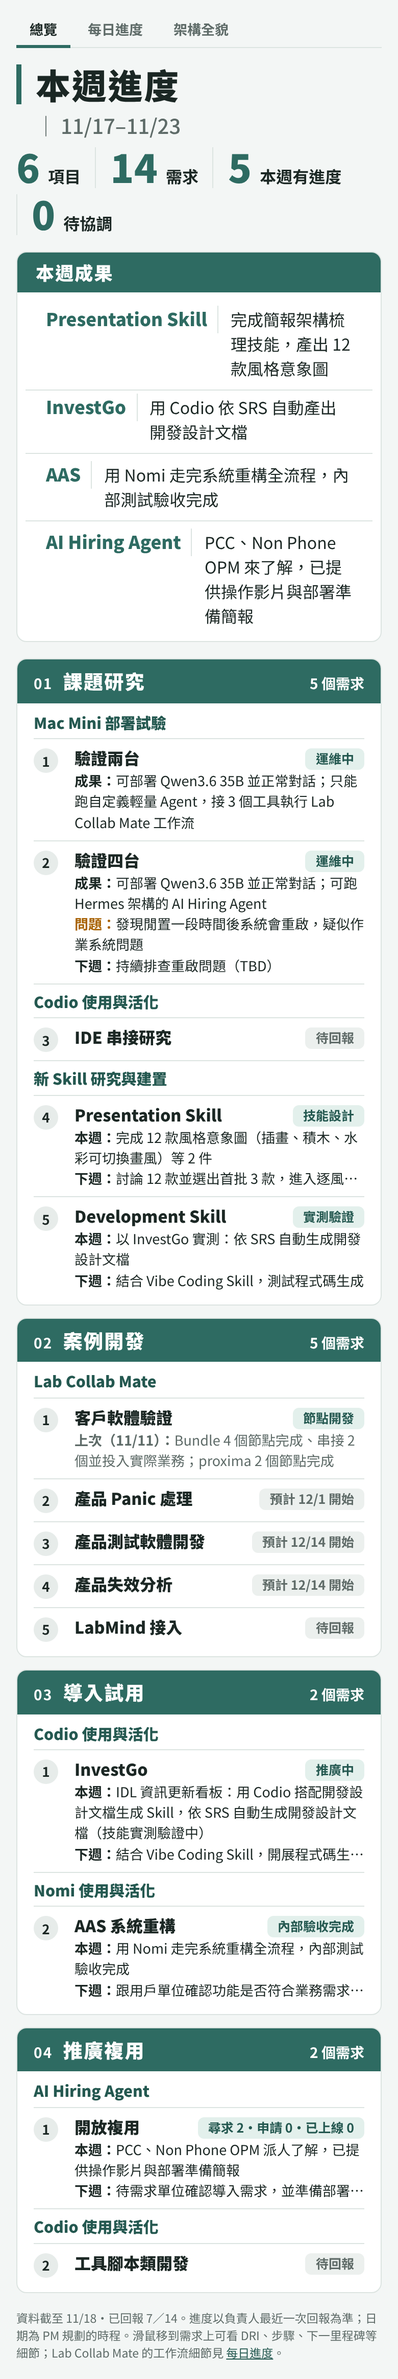
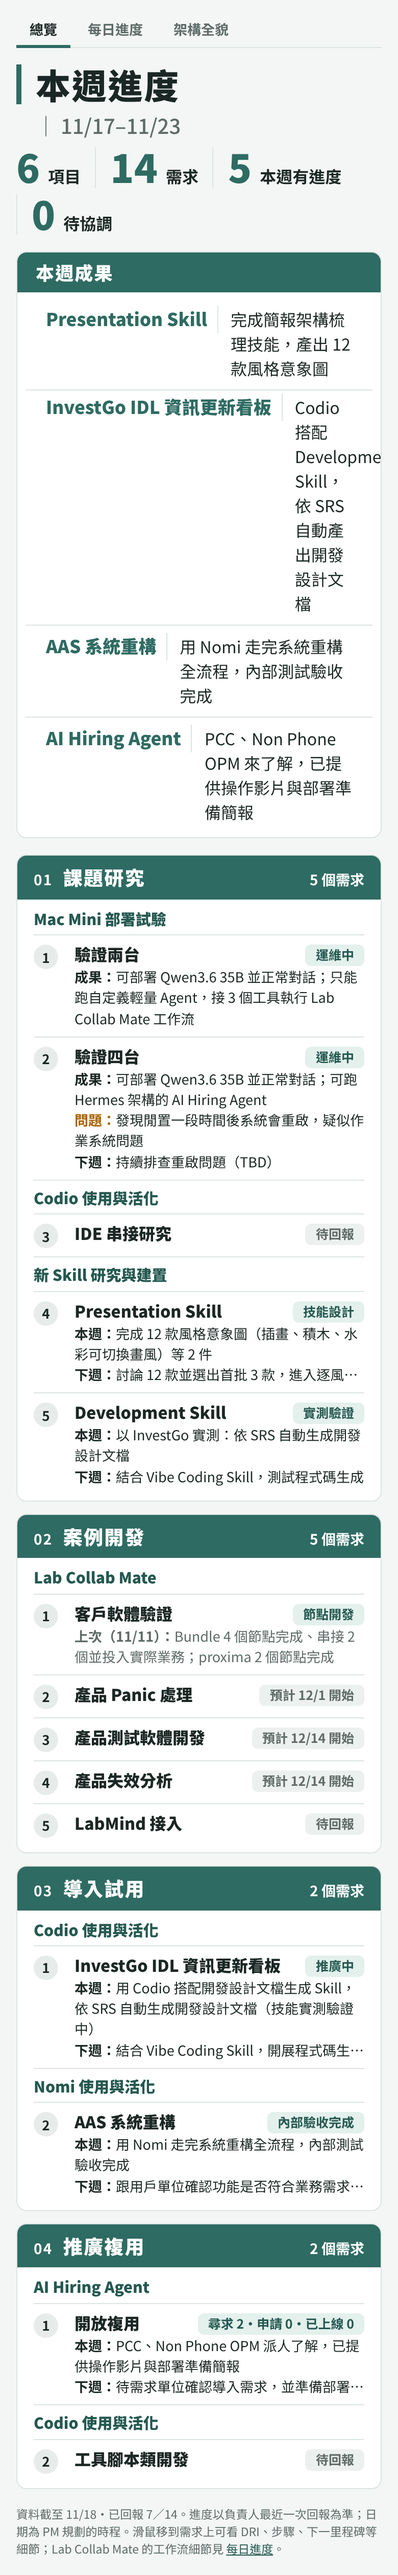
[2026-11-17_overview-redesign] InvestGo 標題加 IDL 資訊更新看板、DRI Lucas；本週成果標題寫完整、InvestGo 成果合併 Codio 與 Skill
Claude-Session: https://claude.ai/code/session_01Cd6Gft6mTX8zcMZinAmXya

Changed region(s): [[0.0308, 0.0, 0.9538, 0.997]]

diff --git a/public/index.html b/public/index.html
@@ -200,7 +200,7 @@ const MODULES = [
           done:["完成 12 款風格意象圖（插畫、積木、水彩可切換畫風）", "依審閱回饋重做顧問報告、週報、攝影雜誌三款"],
           next:["討論 12 款並選出首批 3 款，進入逐風格設計排法"],
           hl:[{i:0, s:"Presentation Skill", t:"完成簡報架構梳理技能，產出 12 款風格意象圖"}]}},
-    {proj:"新 Skill 研究與建置", name:"Development Skill", type:"deliver", dri:null, steps:SKILL, rel:"由 Codio 執行，InvestGo 驗證",
+    {proj:"新 Skill 研究與建置", name:"Development Skill", type:"deliver", dri:"Lucas", steps:SKILL, rel:"由 Codio 執行，InvestGo 驗證",
      sub:{at:2, items:["需求梳理","SRS","原型設計","開發設計文檔","程式碼生成校正","上線運維","測試用例生成"]},
      desc:"以 InvestGo 部門 IDL 資訊更新看板需求實測，與 Codio（InvestGo）共用同一個驗證案例。",
      rep:{now:3,
@@ -225,18 +225,18 @@ const MODULES = [
      rep:null}
   ]},
   {no:"③", name:"導入試用", col:2, reqs:[
-    {proj:"Codio 使用與活化", name:"InvestGo", type:"promo", dri:null, rel:"與 Development Skill 共用 InvestGo 驗證",
+    {proj:"Codio 使用與活化", name:"InvestGo IDL 資訊更新看板", type:"promo", dri:"Lucas", rel:"與 Development Skill 共用 InvestGo 驗證",
      desc:"大型系統類開發：以 InvestGo 部門 IDL 資訊更新看板需求為試點，用 Codio 搭配開發 Skill 走開發流程。",
-     rep:{done:["IDL 資訊更新看板：用 Codio 搭配開發設計文檔生成 Skill，依 SRS 自動生成開發設計文檔（技能實測驗證中）"],
+     rep:{done:["用 Codio 搭配開發設計文檔生成 Skill，依 SRS 自動生成開發設計文檔（技能實測驗證中）"],
           next:["結合 Vibe Coding Skill，開展程式碼生成測試"],
-          hl:[{i:0, s:"InvestGo", t:"用 Codio 依 SRS 自動產出開發設計文檔"}]}},
+          hl:[{i:0, s:"InvestGo IDL 資訊更新看板", t:"Codio 搭配 Development Skill，依 SRS 自動產出開發設計文檔"}]}},
     {proj:"Nomi 使用與活化", name:"AAS 系統重構", type:"deliver", dri:"Tylee",
      steps:["系統分析","需求梳理","原型確認","技術規劃","AI 開發測試","內部試用驗收","用戶單位確認","Xylon 架構重構"],
      desc:"架構演進：原本建在 xTrack 系統管理架構 → Nomi 重構後為純 JSP（無系統管理架構）→ 下一階段改為 Xylon 系統管理架構。重構範圍止於驗收，不含正式部署與切換。用 Nomi 經 6 輪迭代（10/21–11/13），驗收 4 次退回後通過。",
      rep:{now:5, pill:"內部驗收完成",
           done:["用 Nomi 走完系統重構全流程，內部測試驗收完成"],
           next:["跟用戶單位確認功能是否符合業務需求（TBD）"],
-          hl:[{i:0, s:"AAS", t:"用 Nomi 走完系統重構全流程，內部測試驗收完成"}]}}
+          hl:[{i:0, s:"AAS 系統重構", t:"用 Nomi 走完系統重構全流程，內部測試驗收完成"}]}}
   ]},
   {no:"④", name:"推廣複用", col:2, reqs:[
     {proj:"AI Hiring Agent", name:"開放複用", type:"promo", dri:"Alyanna", nums:["尋求","申請","已上線"], numUnit:"單位",
